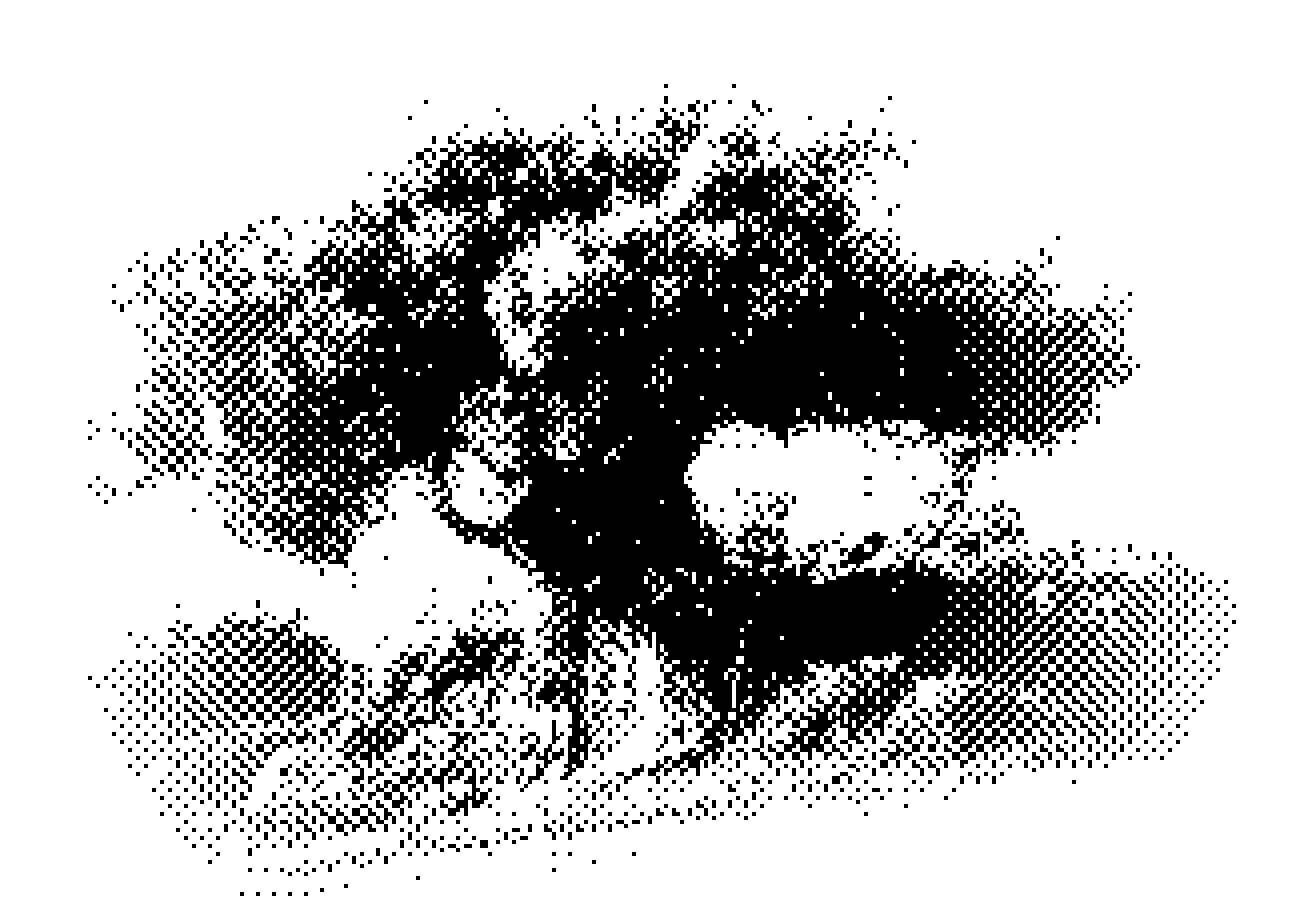
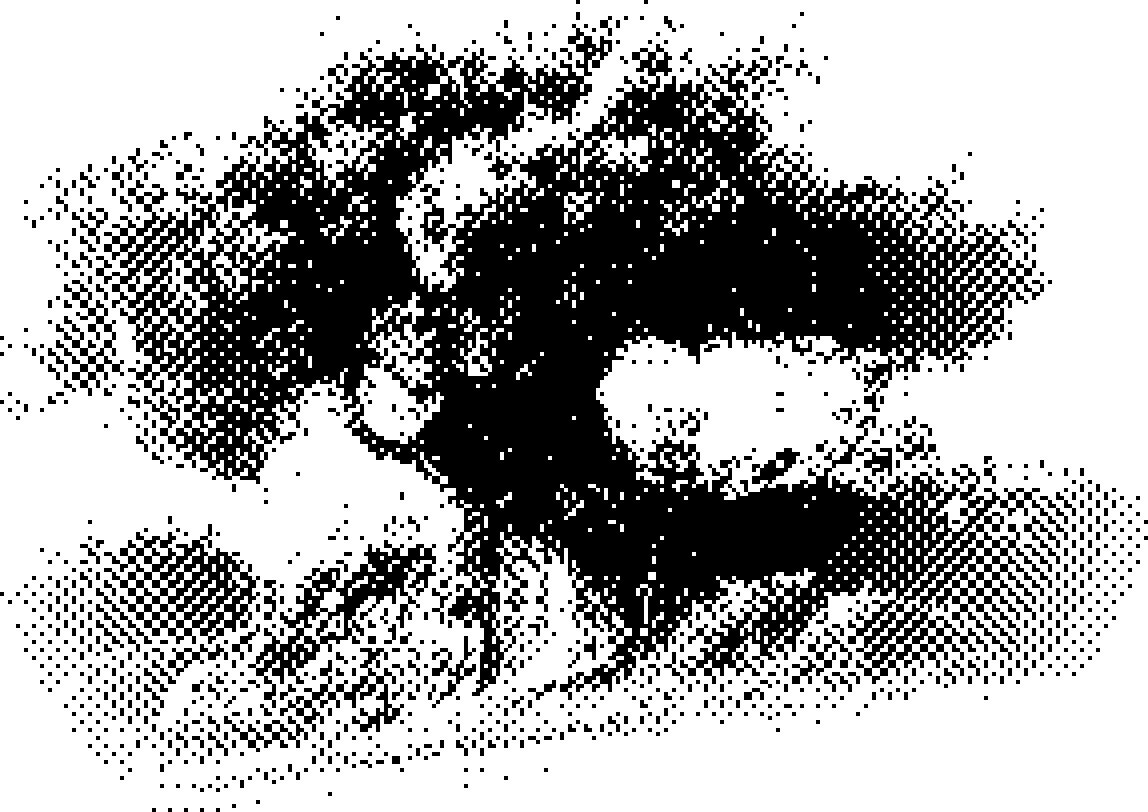
Home móvil más compacta, "games." y capturas de juegos más rápidas
- El árbol de la home crece como mucho hasta 34svh en móvil: ya no deja
  un hueco blanco enorme y los paneles suben. El pie queda encuadrado sin
  scroll también en las alturas reales de Safari en iPhone.
- tree.png recortado a sus puntos, sin margen transparente.
- El panel y la página de proyectos pasan a llamarse "games.".
- Las capturas de los juegos se sirven tal cual (ya son WebP optimizados)
  en vez de pasar por el optimizador, y las dos primeras se cargan ya.

Claude-Session: https://claude.ai/code/session_01JhC2wWUqQ9rHtwfrGLpBTL

Changed region(s): [[0.0305, 0.0, 1.0, 1.0], [0.4878, 0.4002, 0.5183, 0.431], [0.0, 0.4926, 0.0305, 0.5234]]

diff --git a/app/page.tsx b/app/page.tsx
@@ -11,7 +11,8 @@ import { PROJECTS } from "@/lib/projects";
  * y los dos expedientes. En escritorio es una rejilla de 12 columnas y 3 filas
  * (auto, flexible, auto: con filas iguales, la más alta fijaba el alto de las
  * tres y la home dejaba de caber) donde todo se superpone al árbol; en móvil, una columna donde el árbol es el
- * único elemento flexible y se encoge para que la página quepa sin scroll.
+ * de tamaño acotado: el espacio sobrante queda bajo los paneles y el pie se
+ * queda abajo, encuadrado, sin scroll.
  */
 
 function SectionPanel({
@@ -35,7 +36,7 @@ function SectionPanel({
   return (
     <Link
       href={href}
-      className={`group relative z-10 block shrink-0 px-7 py-5 transition-colors duration-500 ease-smooth md:p-8
+      className={`group relative z-10 block shrink-0 px-7 py-4 transition-colors duration-500 ease-smooth md:p-8
                   ${dark ? "bg-graphite text-paper hover:bg-ink" : "bg-panel/85 text-ink hover:bg-panel"} ${className}`}
     >
       {!dark && <Brackets size={18} weight={2} inset={8} />}
@@ -59,14 +60,19 @@ export default function Home() {
     // La home entra entera en pantalla, footer incluido, pero sin recortar:
     // si en algun dispositivo no cupiese, hace scroll en lugar de cortarse.
     <div className="min-h-screen-safe w-full bg-paper font-sans text-ink">
-      <main className="mx-auto flex min-h-screen-safe w-full max-w-6xl flex-col gap-3 px-4 py-4 md:gap-4 md:px-8 md:py-5">
+      <main className="mx-auto flex min-h-screen-safe w-full max-w-6xl flex-col gap-3 px-4 pt-4 pb-[max(1rem,env(safe-area-inset-bottom))] md:gap-4 md:px-8 md:py-5">
 
         <div
           className="relative flex min-h-0 flex-1 flex-col gap-3
                      md:grid md:grid-cols-12 md:grid-rows-[auto_minmax(0,1fr)_auto] md:gap-x-6 md:gap-y-4"
         >
-          {/* Espécimen */}
-          <div className="reveal relative min-h-0 flex-1 md:col-start-3 md:col-end-12 md:row-start-1 md:row-end-4">
+          {/* Espécimen. En móvil crece con el espacio libre solo hasta 34svh: sin ese
+              tope se lo comía entero y dejaba un hueco blanco enorme alrededor de los
+              puntos. Base 0, así que en pantallas bajas cede todo lo que haga falta. */}
+          <div
+            className="reveal relative min-h-0 flex-1 max-h-[34svh]
+                       md:col-start-3 md:col-end-12 md:row-start-1 md:row-end-4 md:max-h-none"
+          >
             <Image
               src="/images/dither/tree.png"
               alt="Solitude, a lone tree, printed as a halftone"
@@ -108,7 +114,7 @@ export default function Home() {
             href="/projects"
             number="02"
             meta={`${PROJECTS.length} games`}
-            title="projects."
+            title="games."
             description="Experiments & code, shipped."
             tone="dark"
             className="reveal md:col-start-1 md:col-end-6 md:row-start-3 md:self-end"

diff --git a/components/ProjectCard.tsx b/components/ProjectCard.tsx
@@ -33,11 +33,15 @@ export default function ProjectCard({
       <div className="relative mt-3 bg-panel p-4 md:p-6">
         <Brackets size={22} weight={2} inset={8} className="z-10 text-ink" />
         <div className="relative aspect-[16/10] overflow-hidden" style={{ backgroundColor: project.tint }}>
+          {/* Las capturas ya son WebP de 1280px optimizados: se sirven tal cual desde
+              el CDN, sin pasar por el optimizador (que en la primera visita las
+              generaba al vuelo y tardaban en aparecer). Las dos primeras se piden ya. */}
           <Image
             src={project.screenshot}
             alt={`${project.name} screenshot`}
             fill
-            sizes="(min-width: 1152px) 500px, (min-width: 768px) 42vw, 90vw"
+            unoptimized
+            priority={index < 2}
             className="object-cover transition-transform duration-700 ease-smooth group-hover:scale-[1.03] motion-reduce:group-hover:scale-100"
           />
         </div>

diff --git a/app/projects/page.tsx b/app/projects/page.tsx
@@ -33,8 +33,8 @@ export default function ProjectsPage() {
         <SectionHeader
           className="reveal mt-6 md:mt-8"
           eyebrow="Selected work"
-          title="Projects"
-          code="File 02 // Games"
+          title="Games"
+          code="File 02 // Browser games"
           meta={`${count} games`}
           intro={
             <>

diff --git a/CLAUDE.md b/CLAUDE.md
@@ -15,8 +15,8 @@ There is no test suite configured in this repo.
 
 Personal portfolio site (Antonio Asis Bastos de Cordoba), built with Next.js 16 App Router, React 19, TypeScript, and Tailwind CSS 3. Three static routes, no API routes, no data fetching — all content is hardcoded.
 
-- `app/page.tsx` — home, the archive index: the halftone tree as the central specimen with the name, its leader line and the two section panels laid over it. **It must fit in the viewport with no scrolling, footer included**: the root is `min-h-screen-safe` (never a fixed height with `overflow-hidden`, see Mobile). On `md+` the stage is a 12-column grid with rows `auto / minmax(0,1fr) / auto`; it must not be three equal `1fr` rows, because the tallest row then sets the height of all three and the page overflows. Below `md` it is a column where the tree is the only `flex-1` element and shrinks to make room. Type sizes are `clamp()` with a `vh` term (`min(13vw,15vh)`) so short laptop screens fit too. Verified at 1920x1080, 1440x900, 1366x768, 1280x720, 1024x768, 768x1024, 430x932, 390x844, 375x667 and 320x568. If you add anything here, re-check that it still fits instead of assuming it does. The counts on the panels come from `lib/photos.ts` and `lib/projects.ts`.
-- `app/projects/page.tsx`: the games, one grid of project files. Everything lives in the `PROJECTS: Project[]` array in `lib/projects.ts`; add a game by appending there (with a `screenshot` and a `tint`), not by writing JSX. The web projects were removed on purpose: this page is games only.
+- `app/page.tsx` — home, the archive index: the halftone tree as the central specimen with the name, its leader line and the two section panels laid over it. **It must fit in the viewport with no scrolling, footer included**: the root is `min-h-screen-safe` (never a fixed height with `overflow-hidden`, see Mobile). On `md+` the stage is a 12-column grid with rows `auto / minmax(0,1fr) / auto`; it must not be three equal `1fr` rows, because the tallest row then sets the height of all three and the page overflows. Below `md` it is a column where the tree is `flex-1` with base 0 but **capped at `max-h-[34svh]`**: uncapped it swallowed all the free height and left a huge white gap around the dots on tall phones; capped, the spare height ends up under the panels and the footer stays framed at the bottom. Safe-area inset is added to the bottom padding. Check mobile at real Safari visible heights (390x664, 375x553, 430x740), not only full screen sizes. The second panel says "games." and links to `/projects`. Type sizes are `clamp()` with a `vh` term (`min(13vw,15vh)`) so short laptop screens fit too. Verified at 1920x1080, 1440x900, 1366x768, 1280x720, 1024x768, 768x1024, 430x932, 430x740, 390x844, 390x664, 375x667, 375x553 and 320x568. If you add anything here, re-check that it still fits instead of assuming it does. The counts on the panels come from `lib/photos.ts` and `lib/projects.ts`.
+- `app/projects/page.tsx`: the games (the page title is "games.", the route stays `/projects`), one grid of project files. Everything lives in the `PROJECTS: Project[]` array in `lib/projects.ts`; add a game by appending there (with a `screenshot` and a `tint`), not by writing JSX. The web projects were removed on purpose: this page is games only.
 - `app/photography/page.tsx` — server component holding the page shell. **Every photo carries the paper viewfinder brackets** (four corners, like a camera focusing), with a hard 1px ink shadow so they stay visible over pale skies; the `FR-xx` tag sits beside the top-left corner, aligned with its arm, never on top of it; the interactive gallery + lightbox is isolated in `components/PhotoGallery.tsx` (the only `"use client"` page-level code). **17 photos is not arbitrary**: the first is featured across 2 of the 3 columns, so 17 photos fill exactly 18 cells, i.e. 6 complete rows with no orphan slot. Adding or removing one leaves a gap unless you add or remove three. The photo list is `lib/photos.ts` — add a photo by dropping the file in `public/images/` and appending an entry there (the page reads the same array to show the frame count).
 
 Content lives in `lib/`, not in the page components, so server pages and the client gallery can share it.
@@ -31,14 +31,14 @@ Page chrome is factored out — do not re-inline it:
 
 - `Footer`: the bottom row. `@antonio10bc` (the Instagram link) on the left, `madrid, es.` on the right, two kinked rules between them on `md+`, and the copyright as a mono label below. It carries no year, on purpose.
 - `SectionHeader`: the file header on `/projects` and `/photography`: eyebrow, the giant title (it appends the full stop), the file `code`, `meta`, `intro` (a `ReactNode`, so line breaks are real `<br />`) and an `aside` on the right (a halftone specimen or a data block).
-- `ProjectCard`: one project file per game: project code, the **real screenshot** of the game (`public/images/projects/*.webp`, 1280x800, quality 80) on its `tint` inside a grey panel with viewfinder brackets, the name as a headline, an ink rule, the tagline as data text, a "Play" action and a barcode. The screenshots were taken locally from each game's own repo (`antonio10bc-hub/neobrutalist-flip` is Coinfliip, `MagicPoker`, `asciiforest`, `chaoticgolfweb`) with Playwright at 1024x640, DPR 1.25 (ASCII Forest at 1280x800, it needs the wider view), with dev badges, cookie banners and debug buttons hidden. Retake them the same way rather than drawing illustrations: the card must look like the game. The card's own `transform` is never animated; entry animations belong on the wrapper in the page.
+- `ProjectCard`: one project file per game: project code, the **real screenshot** of the game (`public/images/projects/*.webp`, 1280x800, quality 80) on its `tint` inside a grey panel with viewfinder brackets, the name as a headline, an ink rule, the tagline as data text, a "Play" action and a barcode. **The screenshots are served `unoptimized`** (they are already 1280px WebP) and the first two load with `priority`: through the image optimiser they were generated on the first visit and took a moment to appear. The screenshots were taken locally from each game's own repo (`antonio10bc-hub/neobrutalist-flip` is Coinfliip, `MagicPoker`, `asciiforest`, `chaoticgolfweb`) with Playwright at 1024x640, DPR 1.25 (ASCII Forest at 1280x800, it needs the wider view), with dev badges, cookie banners and debug buttons hidden. Retake them the same way rather than drawing illustrations: the card must look like the game. The card's own `transform` is never animated; entry animations belong on the wrapper in the page.
 - `Hud`: the graphic vocabulary of the reference as small decorative components (`Brackets`, `CornerMark`, `Dots`, `Barcode`, `DataBars`, `Diamonds`, `XStack`, `PixelGlyph`, `Slashes`, `Leader`, `Arrow`). All are `aria-hidden` and paint in `currentColor`. `Barcode` and `DataBars` are derived from a text `seed` with a deterministic hash, never `Math.random()`, so the server and client HTML match. Decoration is hidden below `md`.
 - `BackLink`: square ink button.
 - `PageTransition` — wraps `{children}` in `app/layout.tsx` and cross-fades routes with a CSS animation (`animate-fade-in`) on a `div` keyed by `usePathname()`. It deliberately does **not** use Framer Motion: `initial={{opacity:0}}` shipped in the server HTML and left every page blank until hydration. `framer-motion` is still in `package.json` but nothing imports it.
 
 ### Halftone specimens
 
-`public/images/dither/tree.png` ("Solitude", photo 9, the home) and `peak.png` ("Snow Peak", photo 13, the photography header) are the site's own photos printed as halftone: cropped, greyscale, levels pushed until the background goes white, edges dissolved with a radial gradient composited with `lighten`, reduced to a quarter, `-ordered-dither h4x4a`, scaled back up 400% with `-filter point`, and white made transparent. **Render them with `unoptimized`**: `next/image` resamples with smoothing and would blur the dots.
+`public/images/dither/tree.png` ("Solitude", photo 9, the home; trimmed to its dots, 1148x812, so no transparent margin adds white space around it) and `peak.png` ("Snow Peak", photo 13, the photography header) are the site's own photos printed as halftone: cropped, greyscale, levels pushed until the background goes white, edges dissolved with a radial gradient composited with `lighten`, reduced to a quarter, `-ordered-dither h4x4a`, scaled back up 400% with `-filter point`, and white made transparent. **Render them with `unoptimized`**: `next/image` resamples with smoothing and would blur the dots.
 
 ### Layering
 
